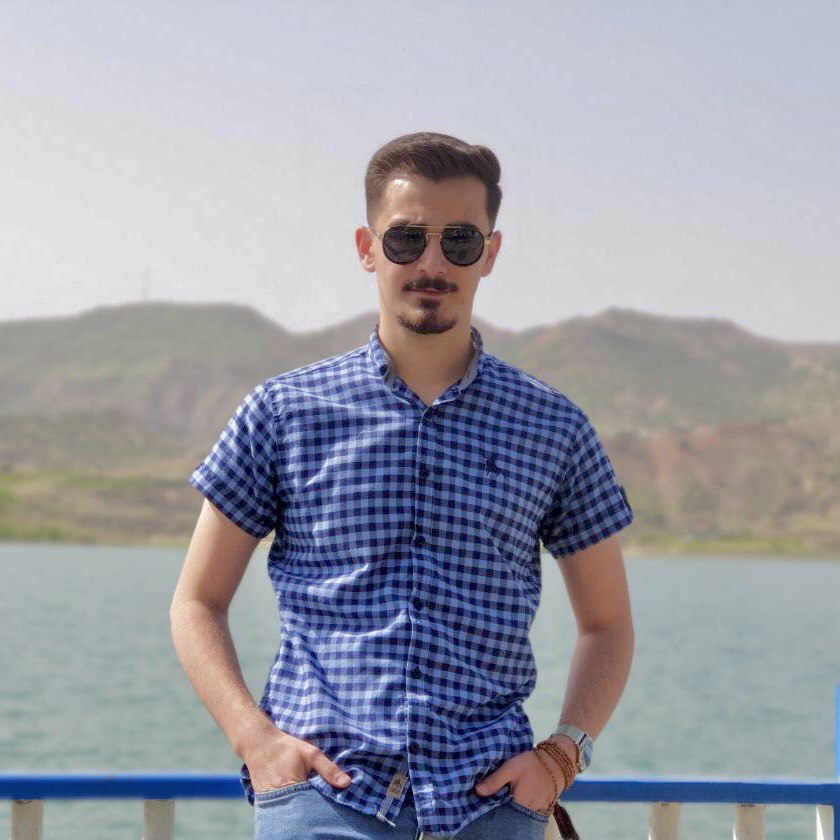
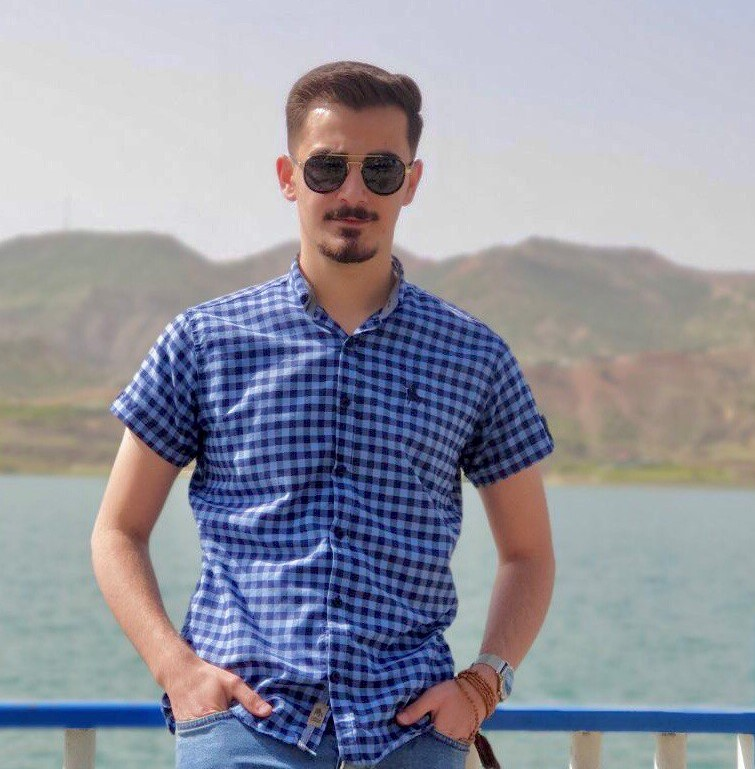
adding about section, remove media query , fixing sidebar

diff --git a/index.html b/index.html
@@ -2,10 +2,11 @@
 <html lang="en">
 
 <head>
+
   <meta charset="UTF-8" />
   <meta http-equiv="X-UA-Compatible" content="IE=edge" />
   <meta name="viewport" content="width=device-width, initial-scale=1.0" />
-
+  <link rel="stylesheet" href="https://cdn.jsdelivr.net/npm/bootstrap-icons@1.8.3/font/bootstrap-icons.css">
   <link href="https://cdn.jsdelivr.net/npm/bootstrap@5.2.0-beta1/dist/css/bootstrap.min.css" rel="stylesheet"
     integrity="sha384-0evHe/X+R7YkIZDRvuzKMRqM+OrBnVFBL6DOitfPri4tjfHxaWutUpFmBp4vmVor" crossorigin="anonymous" />
   <link rel="stylesheet" href="style.css" />
@@ -13,93 +14,82 @@
 </head>
 
 <body>
-  <!-- mobile and ipad navbar  -->
+  <!-- mobile and ipad screen navbar  -->
 
-  <nav class="nav justify-content-sm-center">
-    <li class="nav-item">
-      <a class="nav-link link-light" href="#">About</a>
-    </li>
-    <li class="nav-item">
-      <a class="nav-link link-light" href="#">Projects</a>
-    </li>
-    <li class="nav-item">
-      <a class="nav-link link-light" href="#">Skills</a>
-    </li>
-    <li class="nav-item">
-      <a class="nav-link link-light" href="#">Contacts</a>
-    </li>
-  </nav>
+  
+
+  
 
 
   <aside id="mySidenav" class="sidenav">
-    <!-- sidebar close button -->
     <a href="javascript:void(0)" class="closebtn" onclick="closeSideNav()">&times;</a>
     <!-- profile card -->
     <div class="profile">
 
-      <img src="images/photo_2022-06-22_16-45-07.jpg" class="rounded-4 img-fluid hover-shadow" alt="Avatar" />
+      <img src="images/sidebar-profile-image.jpg" class="rounded-4 img-fluid hover-shadow" alt="Avatar" />
 
       <h5 class="mb-2"><strong>Rawaz Ali</strong></h5>
       <p style="color: #f1f1f1;">Front-end Web Developer</p>
+
 
     </div>
     <!-- profile card end  -->
 
     <!-- sidebar links  -->
     <div>
-      <a href="#">About</a>
-      <a href="#">Projects</a>
-      <a href="#">Skills</a>
-      <a href="#">Contact</a>
+      <a href="#about"><i class="bi bi-file-person-fill"></i></i> About</a>
+      <a href="#"><i class="bi bi-stars"></i> Skills</a>
+      <a href="#"><i class="bi bi-file-earmark-code"></i> Projects</a>
+      <a href="#"><i class="bi bi-envelope"></i> Contact</a>
     </div>
   </aside>
 
 
 
-  <main id="content" class="content">
+  <main id="content" class="content" style="margin-top: 15px;">
+    
+    <span id="open" style="font-size: 20px; cursor: pointer ;" onclick="openSideNav()">&#9776; open</span>
+    <!-- about section start -->
+    <section id="about w-auto">
+      <div class="container mx-lg-auto m-1 w-auto p-3 d-flex align-items-center justify-content-between">
+        <div class="row p-2 pb-0 pe-lg-0 pt-lg-5 align-items-center rounded-4 border shadow-lg w-auto">
+          <div class="col-lg-7 p-3 p-lg-5 pt-lg-3">
+            <div class="lc-block mb-3">
+              <div editable="rich">
+                <h2 class="fw-bold display-5 darkGreen">Hi, I'm Rawaz Ali</h2>
+              </div>
+            </div>
 
-    <!-- sidebar open button -->
-    <span id="open" class="open" style="font-size: 20px; cursor: pointer" onclick="openSideNav()">&#9776; open</span>
+            <div class="lc-block mb-3">
+              <div editable="rich">
+                <p class="lead lead-font-size darkGreen">My name is Rawaz and i'm 21 years old, i'm Front-end Web Developer and
+                  Software Engineering student at Salahaddin University.
+                </p>
+              </div>
+            </div>
 
-    <p>Lorem ipsum dolor sit, amet consectetur adipisicing elit. Ipsum cum voluptatem nihil dolorem provident aperiam
-      omnis quis ut distinctio voluptatum quod unde rem doloremque enim nesciunt, magni officia velit perferendis.</p>
-    <p>Lorem ipsum dolor sit, amet consectetur adipisicing elit. Ipsum cum voluptatem nihil dolorem provident aperiam
-      omnis quis ut distinctio voluptatum quod unde rem doloremque enim nesciunt, magni officia velit perferendis.</p>
-    <p>Lorem ipsum dolor sit, amet consectetur adipisicing elit. Ipsum cum voluptatem nihil dolorem provident aperiam
-      omnis quis ut distinctio voluptatum quod unde rem doloremque enim nesciunt, magni officia velit perferendis.</p>
-    <p>Lorem ipsum dolor sit, amet consectetur adipisicing elit. Ipsum cum voluptatem nihil dolorem provident aperiam
-      omnis quis ut distinctio voluptatum quod unde rem doloremque enim nesciunt, magni officia velit perferendis.</p>
-    <p>Lorem ipsum dolor sit, amet consectetur adipisicing elit. Ipsum cum voluptatem nihil dolorem provident aperiam
-      omnis quis ut distinctio voluptatum quod unde rem doloremque enim nesciunt, magni officia velit perferendis.</p>
-    <p>Lorem ipsum dolor sit, amet consectetur adipisicing elit. Ipsum cum voluptatem nihil dolorem provident aperiam
-      omnis quis ut distinctio voluptatum quod unde rem doloremque enim nesciunt, magni officia velit perferendis.</p>
+            
+              <a class="btn btn-outline-primary" width="%20" href="https://github.com/rawazali999">
+                <svg xmlns="http://www.w3.org/2000/svg" width="16" height="16" fill="currentColor" class="bi bi-github"
+                  viewBox="0 0 16 16">
+                  <path
+                    d="M8 0C3.58 0 0 3.58 0 8c0 3.54 2.29 6.53 5.47 7.59.4.07.55-.17.55-.38 0-.19-.01-.82-.01-1.49-2.01.37-2.53-.49-2.69-.94-.09-.23-.48-.94-.82-1.13-.28-.15-.68-.52-.01-.53.63-.01 1.08.58 1.23.82.72 1.21 1.87.87 2.33.66.07-.52.28-.87.51-1.07-1.78-.2-3.64-.89-3.64-3.95 0-.87.31-1.59.82-2.15-.08-.2-.36-1.02.08-2.12 0 0 .67-.21 2.2.82.64-.18 1.32-.27 2-.27.68 0 1.36.09 2 .27 1.53-1.04 2.2-.82 2.2-.82.44 1.1.16 1.92.08 2.12.51.56.82 1.27.82 2.15 0 3.07-1.87 3.75-3.65 3.95.29.25.54.73.54 1.48 0 1.07-.01 1.93-.01 2.2 0 .21.15.46.55.38A8.012 8.012 0 0 0 16 8c0-4.42-3.58-8-8-8z">
+                  </path>
+                </svg>
+                View Github
+              </a>
+            
 
-    <p>Lorem ipsum dolor sit, amet consectetur adipisicing elit. Ipsum cum voluptatem nihil dolorem provident aperiam
-      omnis quis ut distinctio voluptatum quod unde rem doloremque enim nesciunt, magni officia velit perferendis.</p>
-    <p>Lorem ipsum dolor sit, amet consectetur adipisicing elit. Ipsum cum voluptatem nihil dolorem provident aperiam
-      omnis quis ut distinctio voluptatum quod unde rem doloremque enim nesciunt, magni officia velit perferendis.</p>
-    <p>Lorem ipsum dolor sit, amet consectetur adipisicing elit. Ipsum cum voluptatem nihil dolorem provident aperiam
-      omnis quis ut distinctio voluptatum quod unde rem doloremque enim nesciunt, magni officia velit perferendis.</p>
-    <p>Lorem ipsum dolor sit, amet consectetur adipisicing elit. Ipsum cum voluptatem nihil dolorem provident aperiam
-      omnis quis ut distinctio voluptatum quod unde rem doloremque enim nesciunt, magni officia velit perferendis.</p>
-    <p>Lorem ipsum dolor sit, amet consectetur adipisicing elit. Ipsum cum voluptatem nihil dolorem provident aperiam
-      omnis quis ut distinctio voluptatum quod unde rem doloremque enim nesciunt, magni officia velit perferendis.</p>
-    <p>Lorem ipsum dolor sit, amet consectetur adipisicing elit. Ipsum cum voluptatem nihil dolorem provident aperiam
-      omnis quis ut distinctio voluptatum quod unde rem doloremque enim nesciunt, magni officia velit perferendis.</p>
+          </div>
 
-    <p>Lorem ipsum dolor sit, amet consectetur adipisicing elit. Ipsum cum voluptatem nihil dolorem provident aperiam
-      omnis quis ut distinctio voluptatum quod unde rem doloremque enim nesciunt, magni officia velit perferendis.</p>
-    <p>Lorem ipsum dolor sit, amet consectetur adipisicing elit. Ipsum cum voluptatem nihil dolorem provident aperiam
-      omnis quis ut distinctio voluptatum quod unde rem doloremque enim nesciunt, magni officia velit perferendis.</p>
-    <p>Lorem ipsum dolor sit, amet consectetur adipisicing elit. Ipsum cum voluptatem nihil dolorem provident aperiam
-      omnis quis ut distinctio voluptatum quod unde rem doloremque enim nesciunt, magni officia velit perferendis.</p>
-    <p>Lorem ipsum dolor sit, amet consectetur adipisicing elit. Ipsum cum voluptatem nihil dolorem provident aperiam
-      omnis quis ut distinctio voluptatum quod unde rem doloremque enim nesciunt, magni officia velit perferendis.</p>
-    <p>Lorem ipsum dolor sit, amet consectetur adipisicing elit. Ipsum cum voluptatem nihil dolorem provident aperiam
-      omnis quis ut distinctio voluptatum quod unde rem doloremque enim nesciunt, magni officia velit perferendis.</p>
-    <p>Lorem ipsum dolor sit, amet consectetur adipisicing elit. Ipsum cum voluptatem nihil dolorem provident aperiam
-      omnis quis ut distinctio voluptatum quod unde rem doloremque enim nesciunt, magni officia velit perferendis.</p>
+          <div class="col-lg-4  offset-lg-1 p-0  rounded-4 overflow-hidden shadow-lg w-auto " >
+              <img class="rounded-start img-fluid" src="images/photo_2022-06-22_16-45-07.jpg" width="350px">
+          </div>
 
+        </div>
+      </div>
+    </section>
+    <!-- about section ends -->
 
   </main>
   <script src="script.js"></script>

diff --git a/style.css b/style.css
@@ -1,17 +1,18 @@
 body {
   font-family: Trebuchet MS;
-  background-color: #D8E3E7;
-
 }
-
-img {
+aside img {
   width: 200px;
   height: auto;
 }
 
+.darkGreen{
+  color:#132C33
+}
+
 .sidenav {
   height: 100%;
-  width: 0;
+  width: 0px;
   position: fixed;
   z-index: 1;
   top: 0;
@@ -20,7 +21,6 @@ img {
   overflow-x: hidden;
   transition: 0.5s;
   padding-top: 60px;
-  overflow-y: scroll;
 }
 
 .sidenav a {
@@ -29,7 +29,7 @@ img {
   font-size: 20px;
   color: #f1f1f1;
   display: block;
-  transition: 0.3s;
+  transition: 0.5s;
 }
 
 .sidenav div a:hover {
@@ -37,9 +37,6 @@ img {
   color: #f1f1f1;
 }
 
-.sidenav a:hover {
-  color: #f1f1f1;
-}
 
 .sidenav .closebtn {
   position: absolute;
@@ -56,6 +53,7 @@ img {
   flex-direction: column;
   align-items: center;
   color: #f1f1f1;
+  transition: 0.5s;
 }
 
 
@@ -63,42 +61,24 @@ img {
   width: 150px;
   height: auto;
   margin-bottom: 10px;
+  transition: 0.5s;
+
 
 }
 
 .content {
   transition: 0.5s;
-  margin-left: 10px;
-
-}
-
-.nav {
-  background-color: #132C33;
-  width: 100%;
-  display: none;
-  position: fixed;
-  font-size: small;
-
 }
 
 
-@media screen and (max-height: 450px) {
-  .sidenav {
-    padding-top: 15px;
-  }
 
-  .sidenav div a {
-    font-size: 18px;
-  }
+
+
+@media only screen and (max-width: 600px) {
+  
+  
 }
 
-@media only screen and (max-width: 450px) {
-  .nav {
-    display: flex;
-    position: fixed;
-  }
 
-  .open {
-    display: none;
-  }
-}
+/* today css start here */
+

diff --git a/script.js b/script.js
@@ -1,20 +1,9 @@
 function openSideNav() {
   document.getElementById("mySidenav").style.width = "250px";
-  document.getElementById("open").style.marginLeft = "250px";
-  document.getElementById("open").style.display = "none";
-  document.getElementById("content").style.marginLeft = "260px";
-  document.getElementById("content").style.marginTop = "20px";
-
-
 
 }
 
 function closeSideNav() {
   document.getElementById("mySidenav").style.width = "0";
-  document.getElementById("open").style.marginLeft = "0px";
-  document.getElementById("open").style.display = "block";
-  document.getElementById("content").style.marginLeft = "10px";
-  document.getElementById("content").style.marginTop = "0";
-
 
 }
